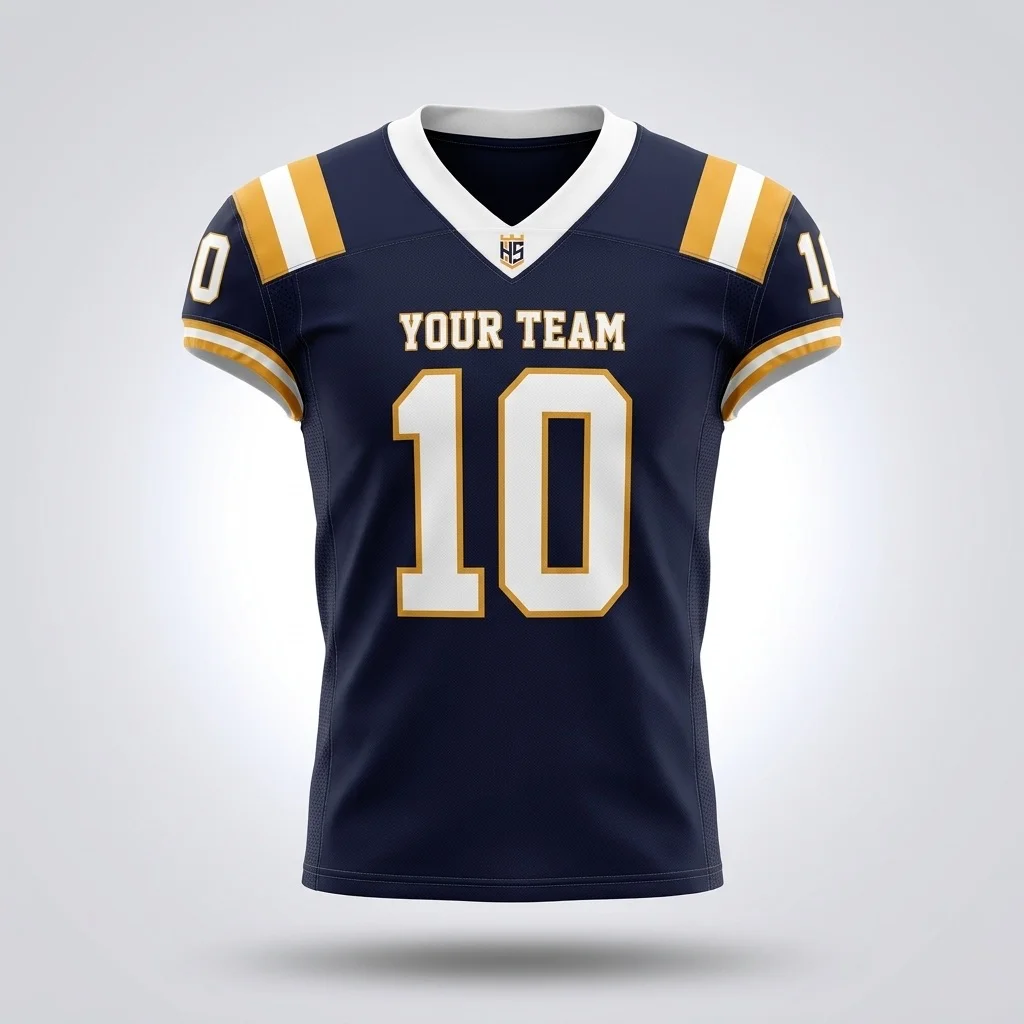
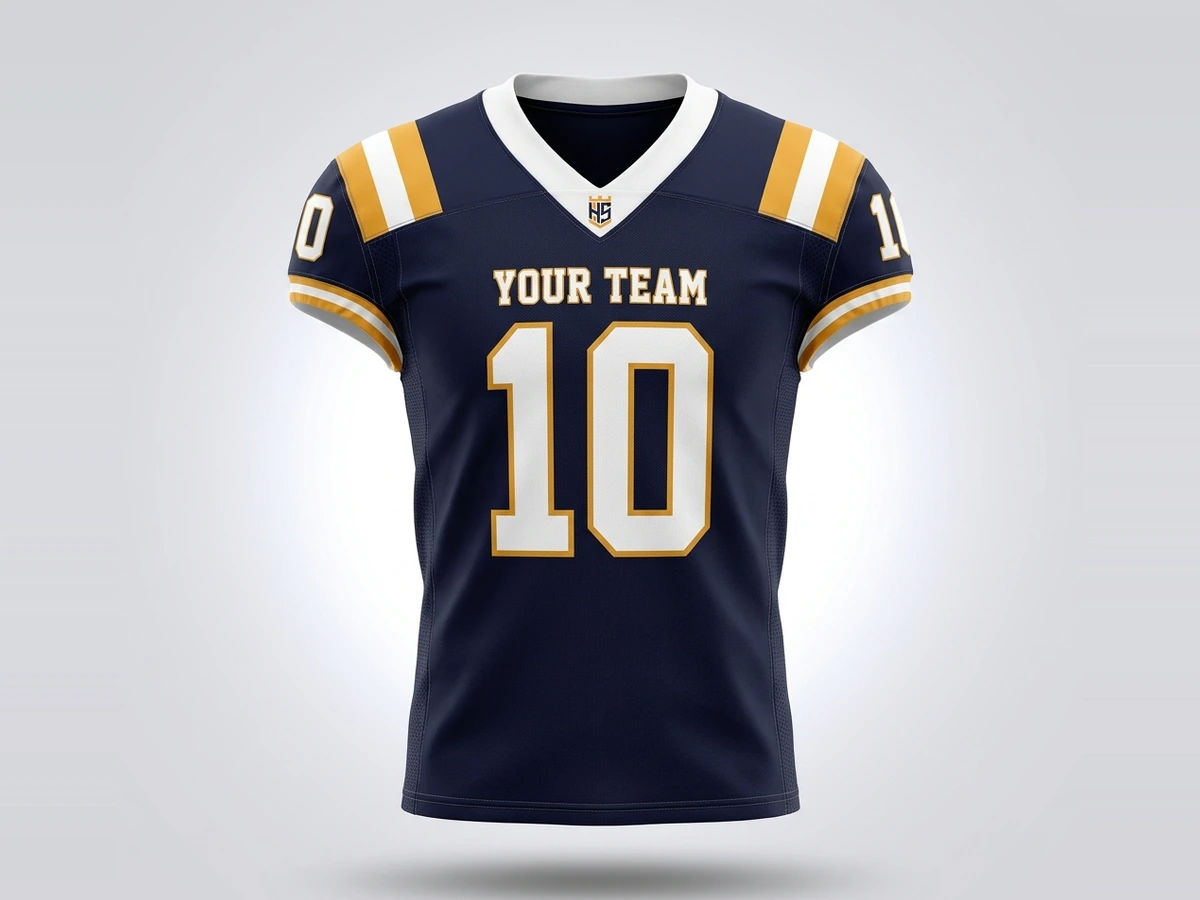
Fit product cards and tiles to 4:3 without cropping
Card and tile photos were square but shown in 4:3 boxes, so collars and
hems were cut off and garment sizes varied from card to card.

optimize-images now finds the garment, scales it to the same height and
centres it in an exact 4:3 image, rendered once from the original JPEG:
category tiles 1200x900, style cards 800x600. Maroon Diamond and Purple
Fade football cards now show the front jersey instead of the full set;
the Ice Hockey and Warm-Ups tiles use the Navy & Gold designs.

Changed region(s): [[0.1562, 0.0622, 0.8438, 1.0]]

diff --git a/src/lib/images.ts b/src/lib/images.ts
@@ -7,10 +7,12 @@ import path from "node:path";
  * Server-only: reads the /public folder at build time.
  *
  * Where to put photos (all under /public/images/products/):
- *   [category].jpg                 category tile, 1600×1200 (4:3)
+ *   [category].jpg                 category tile (front view)
  *   [category]/[item].jpg          style card (only this file is used on cards)
- *   [category]/[item]/1.jpg, 2.jpg product page gallery, 1200×1200 (square), shown in number order
- * .webp (preferred), .jpg, .jpeg and .png all work. Run `npm run optimize-images` after adding photos.
+ *   [category]/[item]/1.jpg, 2.jpg product page gallery, square, shown in number order
+ * .webp (preferred), .jpg, .jpeg and .png all work. Any size works: `npm run optimize-images`
+ * converts to WebP and renders tiles (1200×900) and cards (800×600) straight from the original as 4:3 with the
+ * garment centred at the same size, so the 4:3 card boxes never crop them.
  */
 const EXTENSIONS = ["webp", "jpg", "jpeg", "png"];
 const PUBLIC = path.join(process.cwd(), "public");
